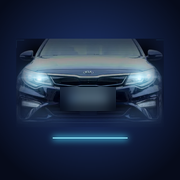
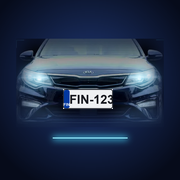
Show a made-up plate (FIN-123) instead of a blurred one

Changed region(s): [[0.3333, 0.4722, 0.6667, 0.6389]]

diff --git a/README.md b/README.md
@@ -238,7 +238,7 @@ The integration adds an **Optima** page to the Home Assistant sidebar: a full-sc
 - **Car sensors (optional):** under Configure, **Sidebar panel**, pick sensors from your car's own integration for the EV and fuel level, ranges, odometer and 12 V battery. Whatever you leave empty is not shown. The panel can also be switched off there.
 - **Languages:** English, German, Swedish and Finnish, from the Home Assistant language setting.
 
-The car picture has the licence plate blurred. Replace `custom_components/eberspaecher/www/car.webp` with your own picture if you like (the day and night lights are placed for a 480 x 316 picture of the car from the front).
+The car picture shows a made-up plate (FIN-123). Replace `custom_components/eberspaecher/www/car.webp` with your own picture if you like (the day and night lights are placed for a 480 x 316 picture of the car from the front).
 
 ## Idle reminder
 
